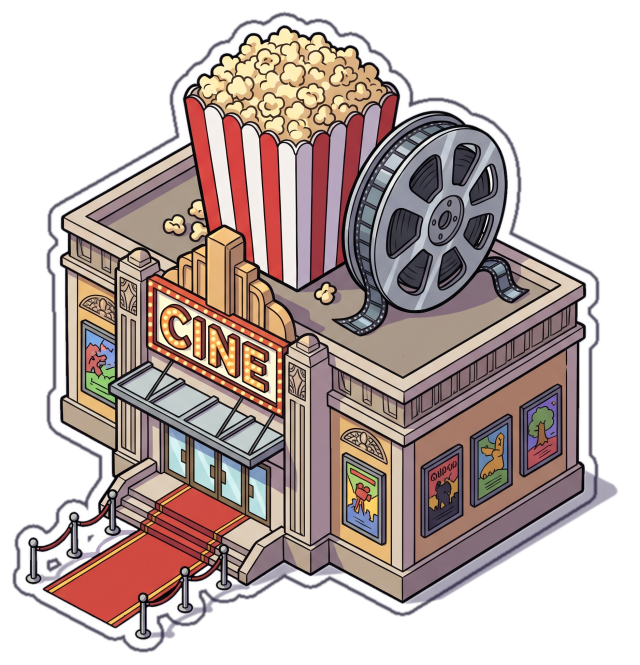
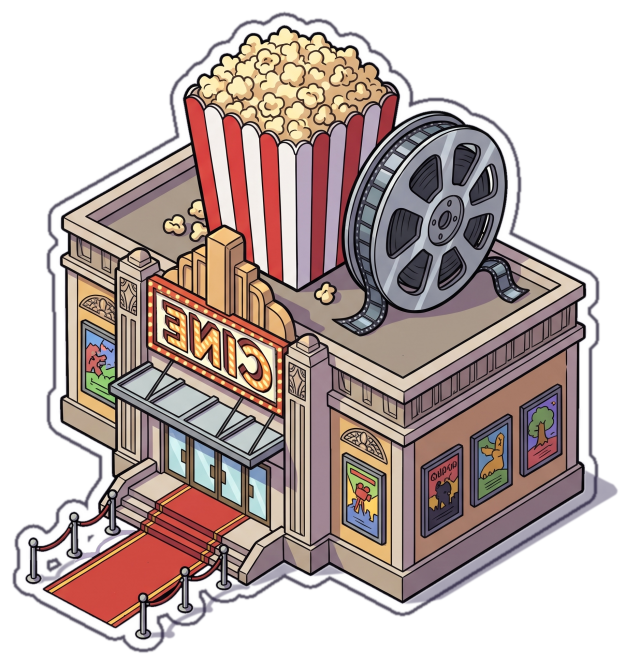
Assets: letreros de Cine y Gimnasio del derecho aunque el edificio vaya espejado
Claude-Session: https://claude.ai/code/session_01WvcRZD1hueeCxtHC67sW1F

Changed region(s): [[0.2188, 0.4211, 0.4375, 0.6015]]

diff --git a/scripts/fix_text.py b/scripts/fix_text.py
@@ -1,0 +1,48 @@
+"""Pre-espeja los letreros de los edificios que en el mapa se muestran espejados (flip en buildings.ts).
+
+El mapa espeja el edificio entero con CSS, y con él las letras ("CINE" se leía "ENIC").
+Aquí se espeja antes solo el interior del letrero, dentro de su propio plano: se endereza el
+cuadrilátero a un rectángulo, se le da la vuelta y se vuelve a colocar. Al espejar el mapa el
+edificio, el letrero queda del derecho y sigue pegado a la fachada con su inclinación.
+
+Los cuadriláteros van en píxeles del JPG original (2048×2048): esquina superior izquierda,
+superior derecha, inferior derecha e inferior izquierda de la zona del letrero.
+"""
+import cv2
+import numpy as np
+from PIL import Image
+
+SIGNS = {
+    # fondo crema del letrero luminoso, dentro del marco de bombillas
+    "cine": [[(630, 900), (980, 1072), (980, 1238), (634, 1058)]],
+    # cara frontal gris del cartel
+    "gimnasio": [[(712, 960), (950, 1075), (950, 1200), (710, 1082)]],
+}
+
+
+def mirror_quad(img: np.ndarray, quad) -> np.ndarray:
+    q = np.float32(quad)
+    w = int(max(np.linalg.norm(q[1] - q[0]), np.linalg.norm(q[2] - q[3])))
+    h = int(max(np.linalg.norm(q[3] - q[0]), np.linalg.norm(q[2] - q[1])))
+    rect = np.float32([(0, 0), (w, 0), (w, h), (0, h)])
+    to_rect = cv2.getPerspectiveTransform(q, rect)
+    flat = cv2.warpPerspective(img, to_rect, (w, h), flags=cv2.INTER_CUBIC, borderMode=cv2.BORDER_REPLICATE)
+    flat = flat[:, ::-1].copy()
+    back = cv2.warpPerspective(
+        flat, np.linalg.inv(to_rect), (img.shape[1], img.shape[0]), flags=cv2.INTER_CUBIC, borderMode=cv2.BORDER_TRANSPARENT
+    )
+    mask = np.zeros(img.shape[:2], np.uint8)
+    cv2.fillConvexPoly(mask, q.astype(np.int32), 255)
+    mask = cv2.GaussianBlur(mask, (0, 0), 1.2).astype(np.float32)[..., None] / 255
+    return (back * mask + img * (1 - mask)).astype(np.uint8)
+
+
+def fixed_source(src: str, bid: str, out: str) -> str:
+    """Devuelve la ruta de la imagen a procesar: la original o una copia con los letreros pre-espejados."""
+    if bid not in SIGNS:
+        return src
+    img = np.array(Image.open(src).convert("RGB"))
+    for quad in SIGNS[bid]:
+        img = mirror_quad(img, quad)
+    Image.fromarray(img).save(out, quality=97)
+    return out

diff --git a/scripts/build_assets.py b/scripts/build_assets.py
@@ -16,7 +16,10 @@ from pathlib import Path
 
 from PIL import Image
 
+import tempfile
+
 from cutout import process
+from fix_text import fixed_source
 
 ROOT = Path(__file__).resolve().parent.parent
 SRC = ROOT / "Imagenes"
@@ -63,8 +66,11 @@ def main():
     print(f"mapa_base: {mapa.size[0]}x{mapa.size[1]}")
 
     hit = {}
-    for bid, fname in BUILDINGS.items():
-        hit[bid] = process(str(SRC / fname), str(OUT), bid, png_dir=str(PNG), **TRAPPED.get(bid, {}))
+    with tempfile.TemporaryDirectory() as tmp:
+        for bid, fname in BUILDINGS.items():
+            # letreros pre-espejados para los edificios que el mapa muestra en espejo
+            src = fixed_source(str(SRC / fname), bid, f"{tmp}/{bid}.jpg")
+            hit[bid] = process(src, str(OUT), bid, png_dir=str(PNG), **TRAPPED.get(bid, {}))
 
     DATA.write_text(json.dumps(hit, separators=(",", ":")) + "\n", encoding="utf-8")
     print(f"Escrito {DATA.relative_to(ROOT)}")
